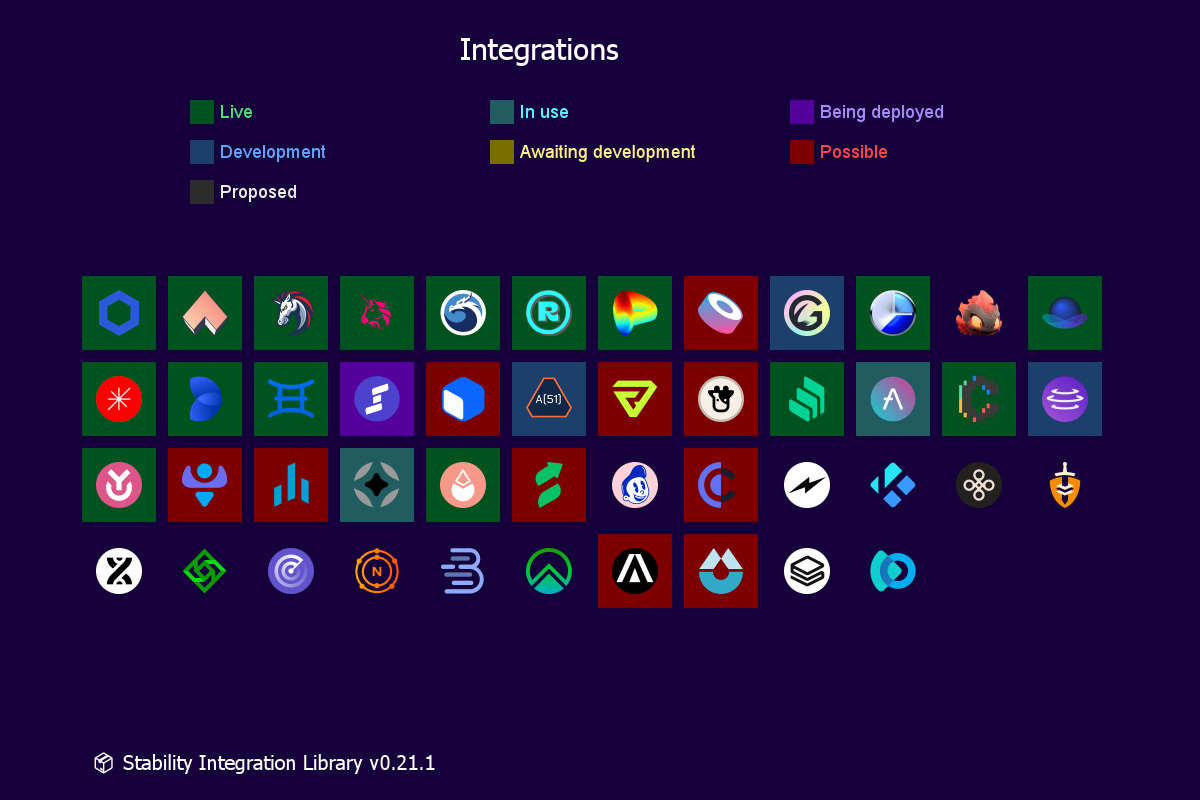
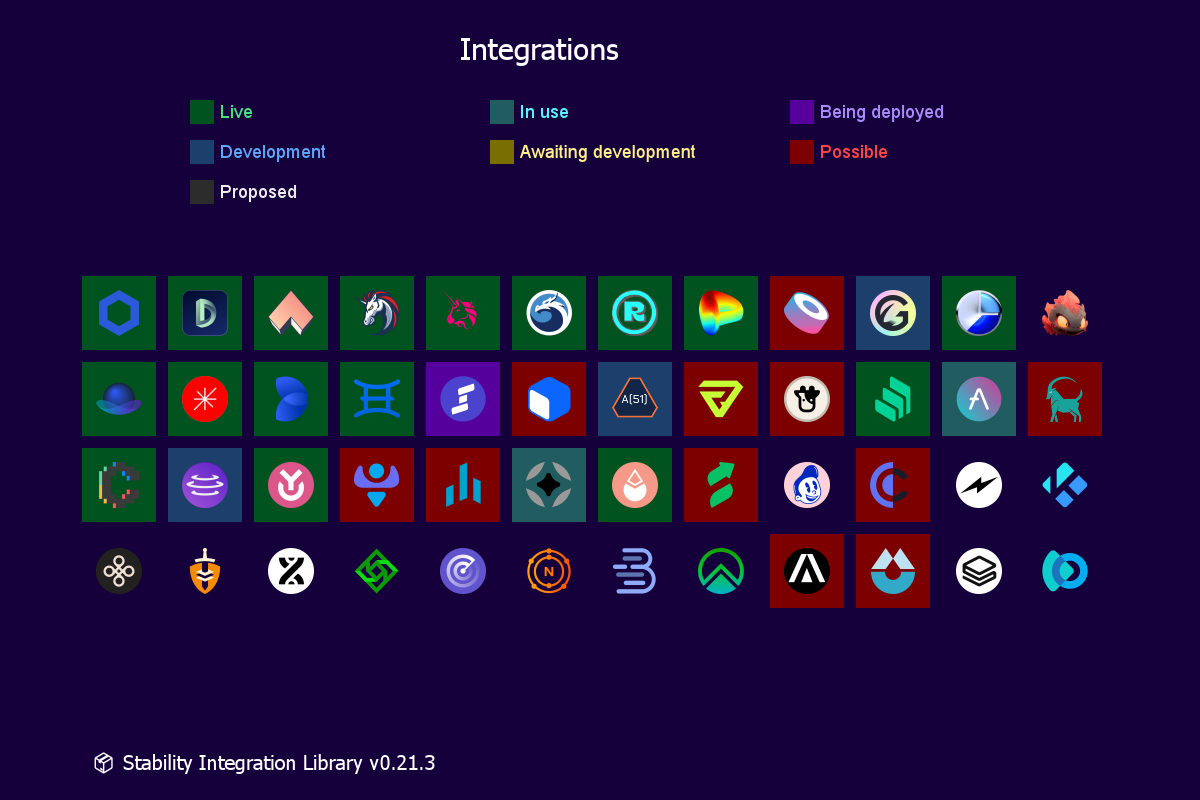
🌐 add Impermax

diff --git a/src/integrations.ts b/src/integrations.ts
@@ -1,5 +1,5 @@
-import { strategies, StrategyShortId, StrategyState } from "./strategies";
-import { ChainName, chains, getSupportedChainNames } from "./chains";
+import {strategies, StrategyShortId, StrategyState} from "./strategies";
+import {ChainName, chains, getSupportedChainNames} from "./chains";
 
 export type DeFiOrganization = {
   name: string;
@@ -157,6 +157,45 @@ export const integrations: { [org: string]: DeFiOrganization } = {
     },
     defiLlama: "chainlink",
     github: "smartcontractkit",
+  },
+  dia: {
+    name: "DIA",
+    img: "Diadata.svg",
+    website: "https://www.diadata.org/",
+    protocols: {
+      diadata: {
+        name: "Dia Data",
+        category: DefiCategory.ORACLE,
+        chains: [
+          ChainName.ARBITRUM,
+          ChainName.AURORA,
+          ChainName.AVALANCHE,
+          ChainName.BASE,
+          ChainName.BEVM,
+          ChainName.CELO,
+          ChainName.ETHEREUM,
+          ChainName.EVMOS,
+          ChainName.FANTOM,
+          ChainName.FUSE,
+          ChainName.LINEA,
+          ChainName.METIS,
+          ChainName.MOONBEAM,
+          ChainName.MOONRIVER,
+          ChainName.ZKSYNC,
+          ChainName.TELOS,
+          ChainName.OPTIMISM,
+          ChainName.POLYGON,
+          ChainName.POLYGON_ZKEVM,
+          ChainName.GNOSIS,
+          ChainName.BSC,
+          ChainName.BOBA,
+          ChainName.ASTAR_ZKEVM,
+        ],
+        adapters: ["DiaAdapter"],
+      },
+    },
+    defiLlama: "dia",
+    github: "diadata-org",
   },
   // Rewarding
   angle: {
@@ -766,6 +805,35 @@ export const integrations: { [org: string]: DeFiOrganization } = {
     defiLlama: "aave",
     github: "aave",
   },
+  // leveraged lending
+  impermax: {
+    name: "Impermax",
+    img: "Impermax.svg",
+    website: "https://www.impermax.finance/",
+    protocols: {
+      impermax: {
+        name: "Impermax",
+        category: DefiCategory.LENDING,
+        chains: [
+          ChainName.ETHEREUM,
+          ChainName.BASE,
+          ChainName.OPTIMISM,
+          ChainName.POLYGON,
+          ChainName.ARBITRUM,
+          ChainName.AVALANCHE,
+          ChainName.SCROLL,
+          ChainName.FANTOM,
+          ChainName.MOONRIVER,
+          ChainName.ZKSYNC,
+          ChainName.MANTLE,
+          ChainName.REAL,
+          // canto
+        ],
+      },
+    },
+    defiLlama: "impermax-finance",
+    github: "Impermax-Finance",
+  },
   // Boost aggregator
   convex: {
     name: "Convex",
@@ -1205,45 +1273,6 @@ export const integrations: { [org: string]: DeFiOrganization } = {
       },
     },
     defiLlama: "cytoswap",
-  },
-  dia: {
-    name: "DIA",
-    img: "Diadata.svg",
-    website: "https://www.diadata.org/",
-    protocols: {
-      diadata: {
-        name: "Dia Data",
-        category: DefiCategory.ORACLE,
-        chains: [
-          ChainName.ARBITRUM,
-          ChainName.AURORA,
-          ChainName.AVALANCHE,
-          ChainName.BASE,
-          ChainName.BEVM,
-          ChainName.CELO,
-          ChainName.ETHEREUM,
-          ChainName.EVMOS,
-          ChainName.FANTOM,
-          ChainName.FUSE,
-          ChainName.LINEA,
-          ChainName.METIS,
-          ChainName.MOONBEAM,
-          ChainName.MOONRIVER,
-          ChainName.ZKSYNC,
-          ChainName.TELOS,
-          ChainName.OPTIMISM,
-          ChainName.POLYGON,
-          ChainName.POLYGON_ZKEVM,
-          ChainName.GNOSIS,
-          ChainName.BSC,
-          ChainName.BOBA,
-          ChainName.ASTAR_ZKEVM,
-        ],
-        adapters: ["DiaAdapter"],
-      },
-    },
-    defiLlama: "dia",
-    github: "diadata-org",
   },
 };
 
